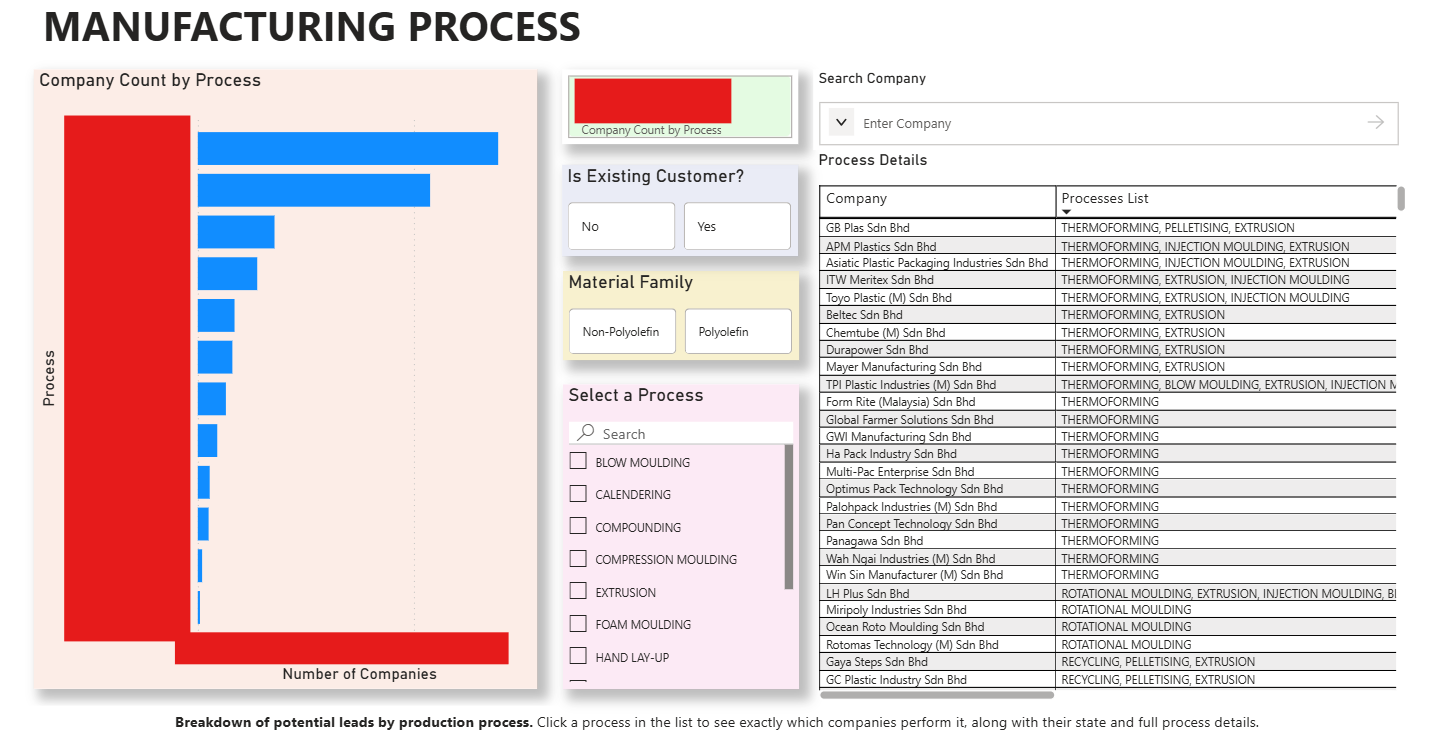
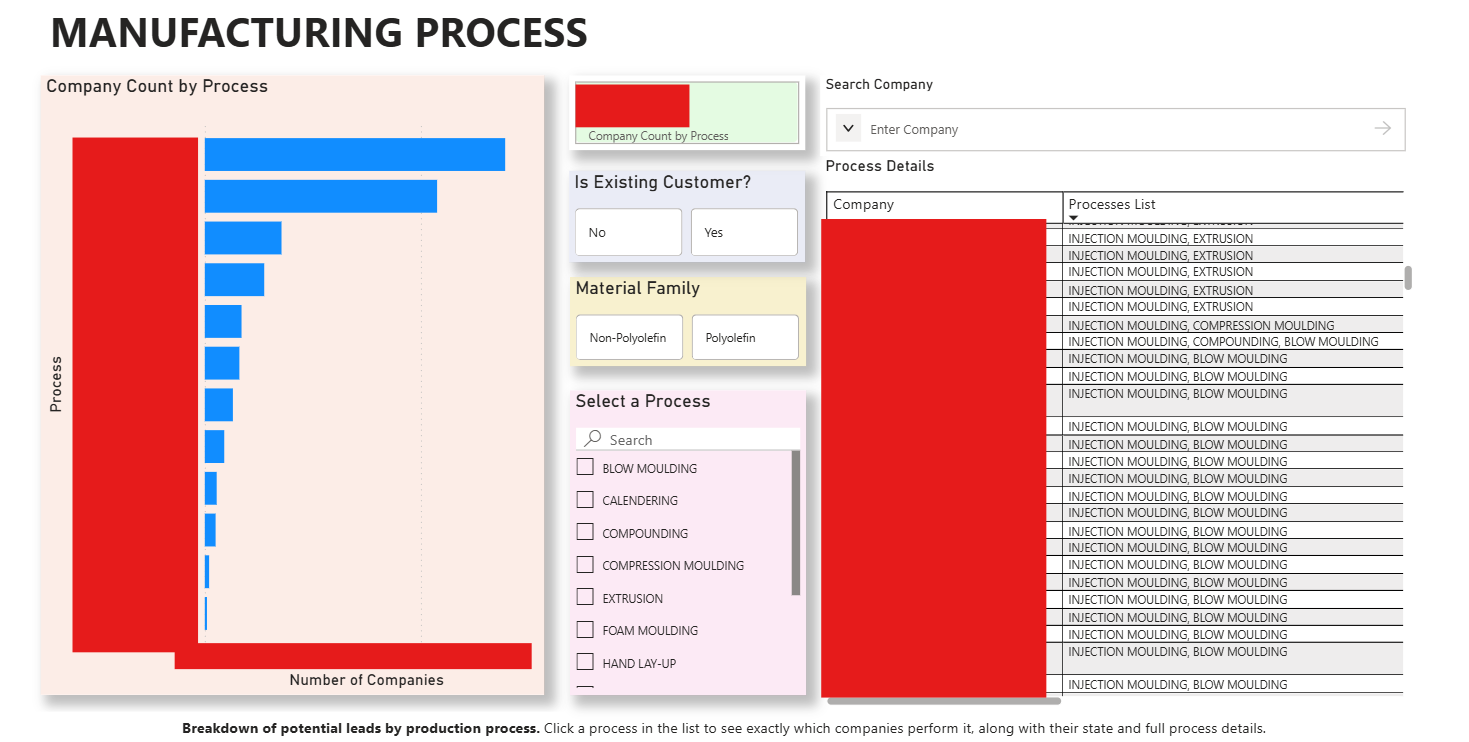
Update dashboard screenshot with company names redacted
Replaced with the new version where the company column is blocked
out; the process list stays visible. Updated the caption to match.

Changed region(s): [[0.0311, 0.0898, 0.9959, 1.0], [0.0311, 0.0, 0.4046, 0.0898], [0.9336, 0.1497, 0.9647, 0.1796]]

diff --git a/src/app/app.ts b/src/app/app.ts
@@ -315,7 +315,7 @@ export class App implements OnInit, AfterViewInit, OnDestroy {
     {
       src: 'assets/project%20dashboard.png',
       alt: 'Internship project dashboard',
-      caption: 'One page from the potential-customer leads dashboard built during the internship, not the whole project. This page covers the manufacturing process view, with company names and their processes listed on the right. Sensitive information is obfuscated.',
+      caption: 'One page from the potential-customer leads dashboard built during the internship, not the whole project. This page covers the manufacturing process view, with each company\'s processes listed on the right. Company names are redacted.',
     },
     {
       src: 'assets/working.jpg',
